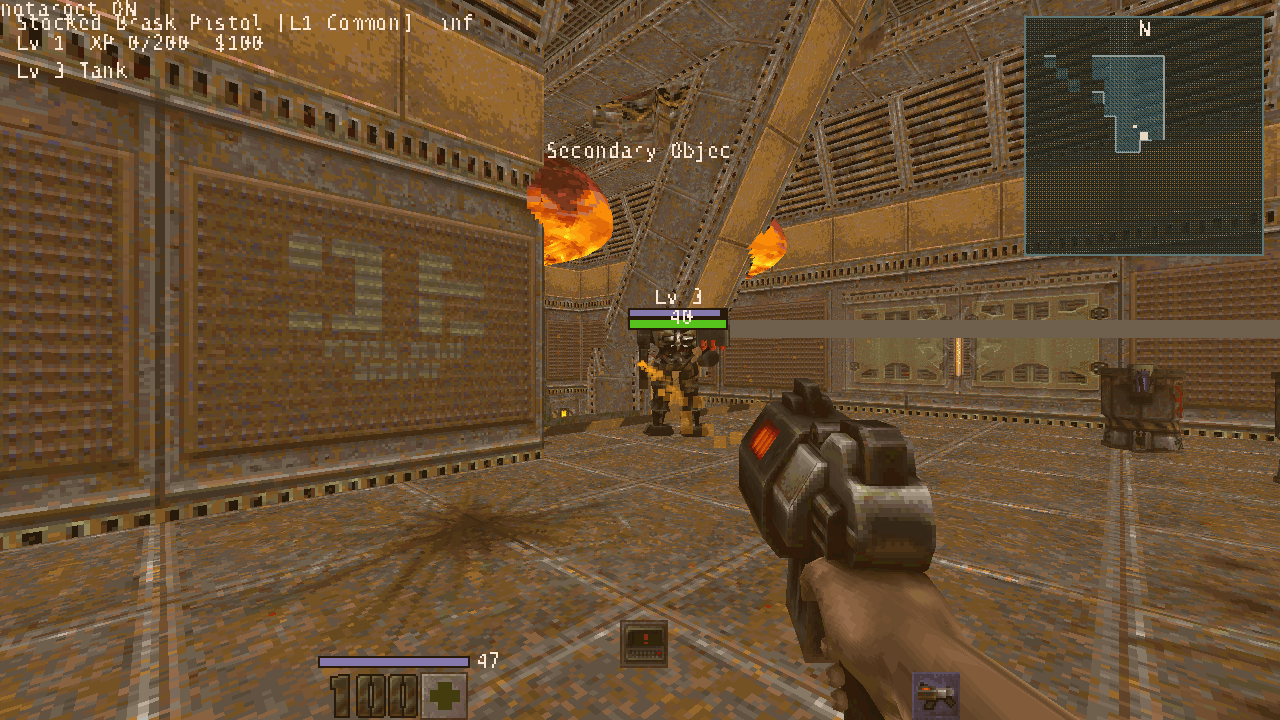
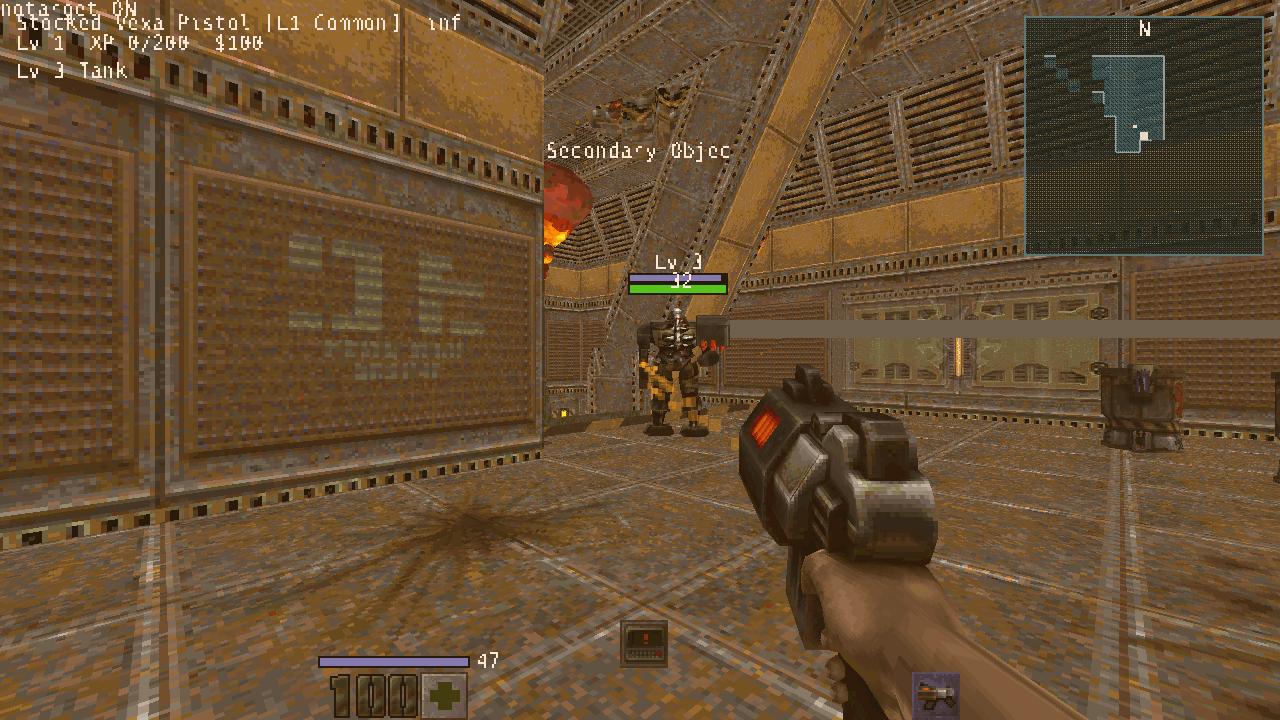
Client game: eye position without the view height twice

diff --git a/src/client/cl_cgame.c b/src/client/cl_cgame.c
@@ -1136,7 +1136,27 @@ CL_CGame_PlayerState(cg_player_state_t *out)
 	out->pmove.pm_flags = ps->pmove.pm_flags;
 	out->pmove.pm_time = ps->pmove.pm_time;
 	out->pmove.gravity = ps->pmove.gravity;
-	out->pmove.viewheight = (int8_t)ps->viewoffset[2];
+
+	/* optech2: our view offset has the view height in it, the re-release
+	   keeps them apart (eye = origin + viewoffset + viewheight); counting it
+	   twice put the eye 22 units high, so q2arpg's health bars sank into the
+	   monsters */
+	out->pmove.viewheight = ps->rr_pmove ? (int8_t)ps->rr_viewheight : (int8_t)ps->viewoffset[2];
+	out->viewoffset[2] -= out->pmove.viewheight;
+
+	/* the view as drawn this frame (predicted, smoothed, with kicks), so
+	   what the module projects onto the screen (health bars over monsters)
+	   stays on them while turning and moving */
+	if (cls.state == ca_active && cl.refresh_prepped)
+	{
+		for (i = 0; i < 3; i++)
+		{
+			out->pmove.origin[i] = cl.refdef.vieworg[i] - out->viewoffset[i];
+			out->viewangles[i] = cl.refdef.viewangles[i];
+		}
+
+		out->pmove.origin[2] -= out->pmove.viewheight;
+	}
 
 	out->gunindex = ps->gunindex;
 	out->gunframe = ps->gunframe;

diff --git a/CHANGES.md b/CHANGES.md
@@ -4,6 +4,7 @@ Changes made on top of Yamagi Quake II Remaster. Upstream history (Yamagi Quake 
 
 ## Unreleased
 
+- Re-release client games get the eye where it is: the view height was counted twice (our view offset has it in, the re-release keeps it apart), 22 units high, so q2arpg's health bars sank into monsters. The HUD player state now also carries the view as drawn (predicted origin, angles with kicks), so things projected onto the screen stay put while turning.
 - Re-release client games: the built-in `_white` picture draws (a colored, see-through box): bars, text backing and q2arpg's minimap were missing (`Can't find pic: _white`).
 - q2arpg (a re-release game mod) runs: built for Linux from a snapshot of its source with the stock game's build wrapper (`tools/rerelease/stock_game`, now also takes a mod's `q2rpg/` sources and VERSION), unchanged. Its HUD, XP, saves and loads work. New `q2arpg` check (skips without the snapshot in `research/q2arpg-snapshot`).
 - Re-release games: weapon and powerup wheels. Hold `+wheel` (weapons) or `+wheel2` (powerups): the items the player has sit around a ring in the game's order, the mouse points (`cl_wheel_deadzone`), letting go switches (`use_index_only`). The pointed item's name and ammo show in the middle; items without enough ammo are greyed. `wheel_list` prints what the wheels hold, `wheel_aim <dx> <dy>` moves the cursor. The wheel configstrings (CS_WHEEL_WEAPONS / _AMMO / _POWERUPS, CS_CD_LOOP_COUNT, CS_GAME_STYLE) now get our own slots and reach the client: **protocol 2026**. Level files hold the bigger configstring table; ones written before still load (told apart by length). The client game now gets configstrings in its own numbering (its air acceleration and N64 physics settings never matched before). `rr-hud` checks the wheel. Default keys (`yq2.cfg`) are WASD now (were ESDF with A/G turning), Q holds the weapon wheel and E the powerup wheel (Q and W used the quad damage and power shield, both on the powerup wheel). Not yet: gamepad stick, the re-release's slow motion while the wheel is open.
